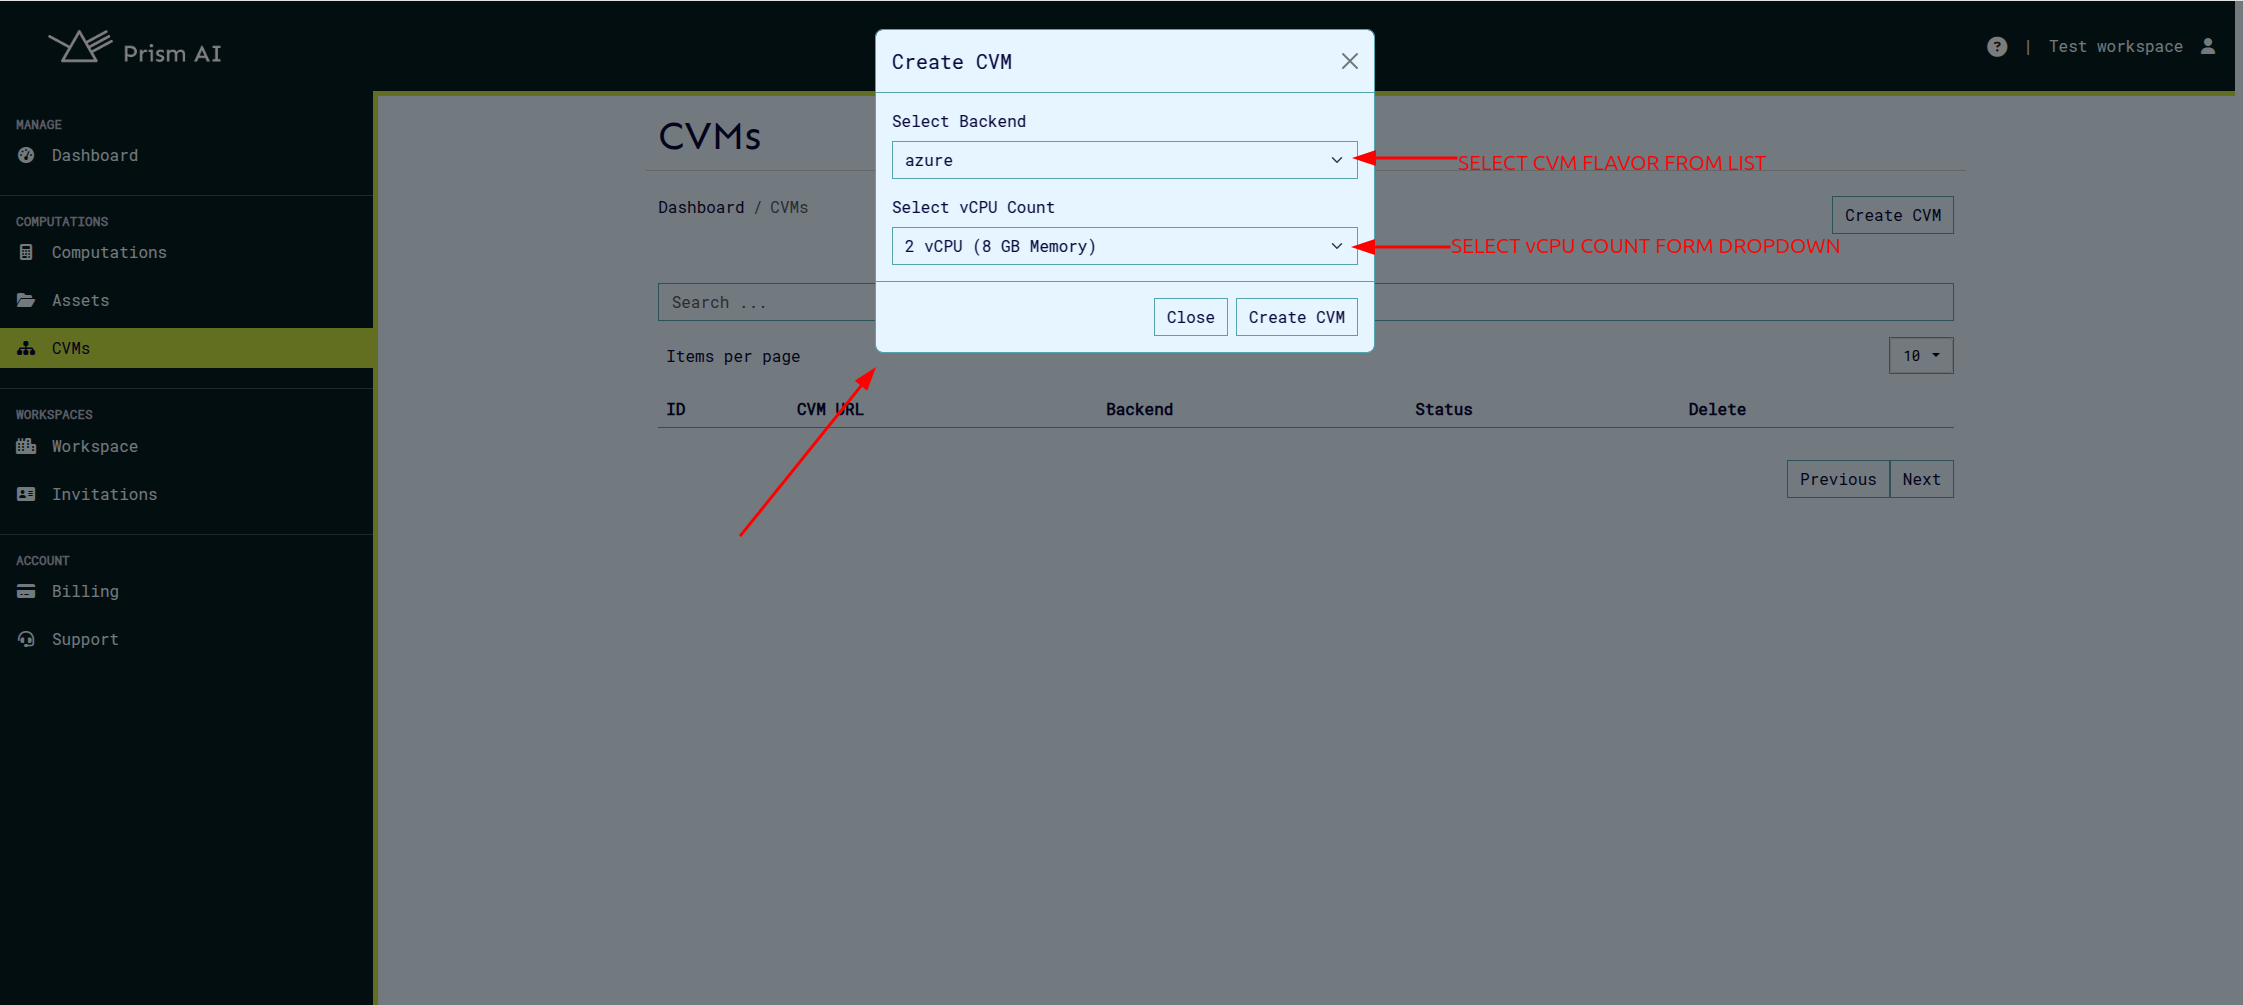
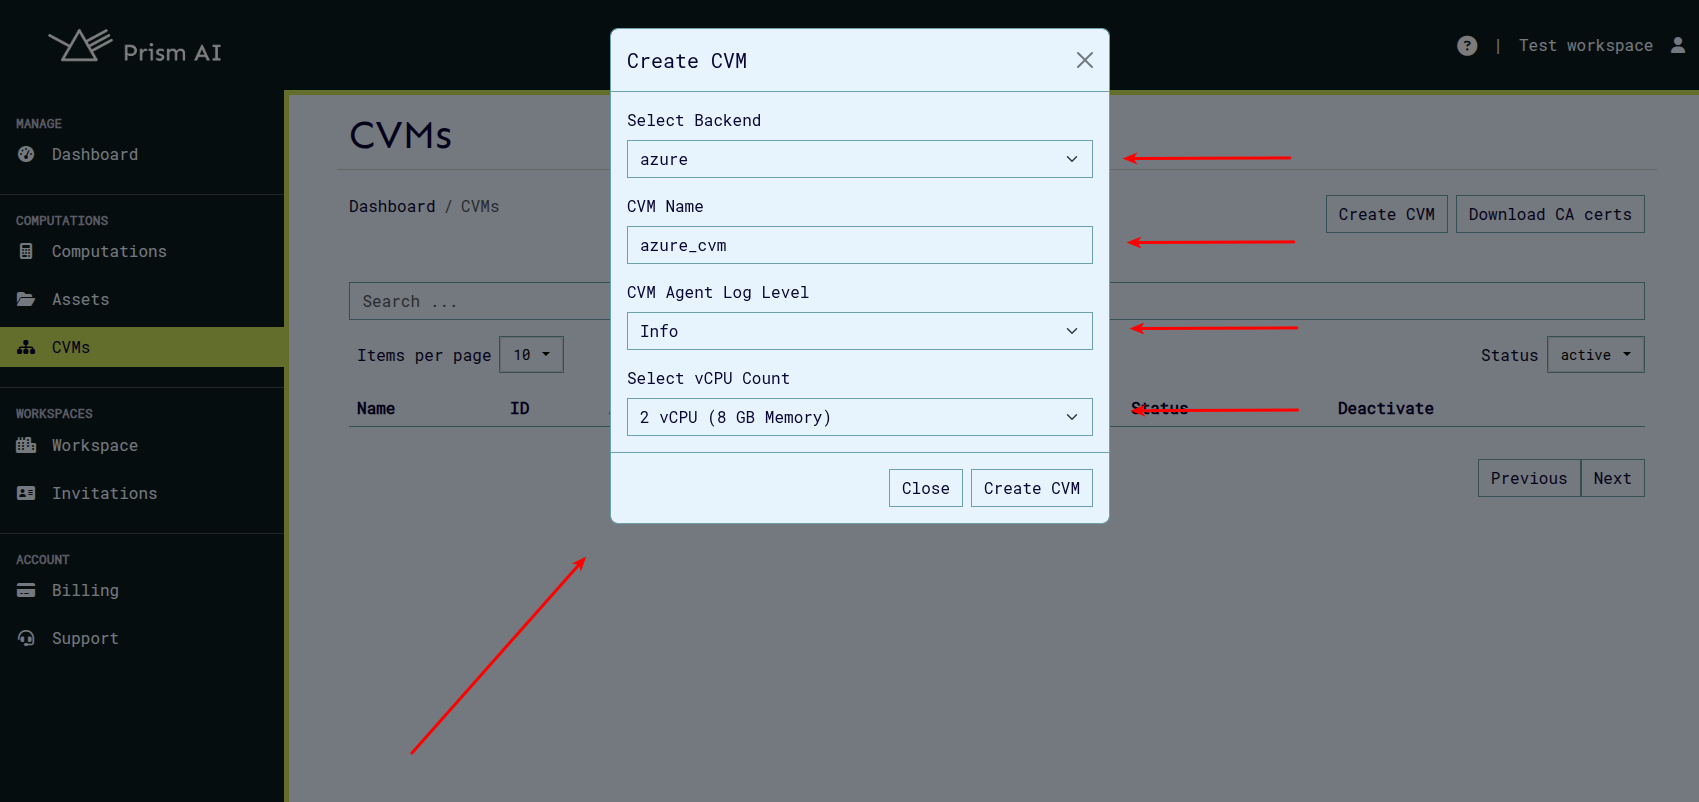
docs update

diff --git a/docs/cvms.md b/docs/cvms.md
@@ -47,15 +47,16 @@ To create a CVM, follow these steps:
 3. **Select Configuration Options:**
 
    - From the dropdown menu, choose the desired CVM flavor (GCP, Azure, or Manager).
-   - Specify the amount of RAM (required for Azure and GCP CVMs).
-   - Define the vCPU count (configurable for Azure and GCP CVMs only).
+   - Specify the name of the CVM.
+   - Specify the log leve of the CVM Agent.
+   - Define the vCPU count and amount of RAM (configurable for Azure and GCP CVMs only).
 
    ![Create Modal](../static/img/cvms/create_modal.png)
 
 4. **CVM Provisioning:**
 
    - After submitting the configuration, the CVM creation process will begin. This may take a few minutes.
-   - Once created, the CVM will appear in the list with its unique **ID, URL, and status**.
+   - Once created, the CVM will appear in the list with its **name, unique ID, URL, backend and status**.
 
    ![CVM List](../static/img/cvms/cvms_list.png)
 
@@ -81,6 +82,9 @@ Each CVM is initialized with default certificates that are used to verify secure
 
    > **Note:** Default certificates are automatically loaded into the CVM during creation. Any newly issued certificates must be manually transferred to the CVM for use.
 
+   Additionaly, you can download the root certificate of the default CA. This certificate is used for signing newly issued certificates. The certificate can be downloaded on the CVM management page by clicking on the **Download CA certs** button.
+
+   ![CA certs dowload](../static/img/cvms/ca_certs_download.png)
 ---
 
 ## Removing a CVM
